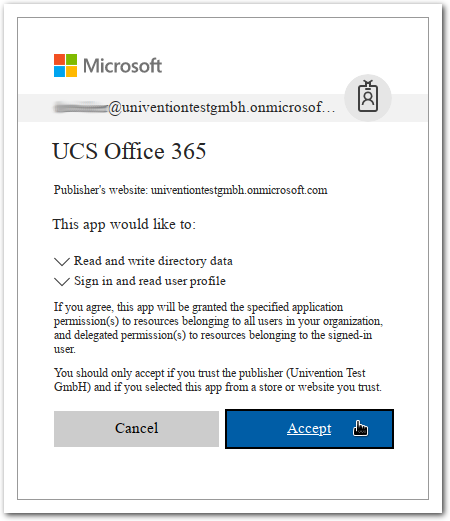
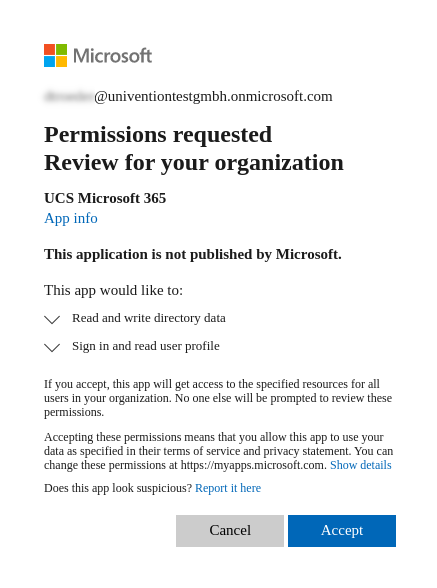
Bug #51153: Office365 is now Microsoft365

Changed region(s): [[0.0892, 0.5835, 0.9222, 0.952], [0.0892, 0.0614, 0.8924, 0.5528], [0.0, 0.0, 1.0, 1.0]]

diff --git a/umc/js/office365.js b/umc/js/office365.js
@@ -69,8 +69,8 @@ define([
 			lang.mixin(this, {
 				pages: [{
 					name: 'start',
-					headerText: _('Welcome to the Office 365 configuration'),
-					helpText: _('Welcome to the Microsoft Office 365 setup wizard. A few steps are needed to complete the configuration process.'),
+					headerText: _('Welcome to the Microsoft 365 configuration'),
+					helpText: _('Welcome to the Microsoft 365 setup wizard. A few steps are needed to complete the configuration process.'),
 					widgets: [{
 						type: Text,
 						name: 'already-initialized',
@@ -91,7 +91,7 @@ define([
 					}]
 				}, {
 					name: 'add-application',
-					headerText: _('Create an application for Office 365'),
+					headerText: _('Create an application for Microsoft 365'),
 					helpText: _('To allow UCS to synchronize selected user accounts a new application have to be added in the active directory.'),
 					widgets: [{
 						name: 'infos',
@@ -111,7 +111,7 @@ define([
 				}, {
 					name: 'ucs-integration',
 					headerText: _('Connect Azure with UCS'),
-					helpText: _('To integrate Office 365 into UCS the manifest of the new application has to be downloaded.') + ' ' + _('The manifest is a JSON file which contains all necessary information required to connect UCS with your active directory.'),
+					helpText: _('To integrate Microsoft 365 into UCS the manifest of the new application has to be downloaded.') + ' ' + _('The manifest is a JSON file which contains all necessary information required to connect UCS with your active directory.'),
 					widgets: [{
 						type: Text,
 						name: 'infos',
@@ -195,7 +195,7 @@ define([
 					}]
 				}, {
 					name: 'authorize',
-					headerText: _('Authorize UCS Office 365 application'),
+					headerText: _('Authorize UCS Microsoft 365 application'),
 					helpText: _('In the following step some permissions have to be granted to UCS.'),
 					widgets: [{
 						type: Text,
@@ -223,7 +223,7 @@ define([
 					}]
 				}, {
 					name: 'success',
-					headerText: _('Office 365 setup complete'),
+					headerText: _('Microsoft 365 setup complete'),
 					helpText: _('Congratulations, the connection between UCS and Microsoft Azure has been established.'),
 					widgets: [{
 						type: Text,
@@ -232,7 +232,7 @@ define([
 					}]
 				}, {
 					name: 'success2',
-					headerText: _('Office 365 setup complete'),
+					headerText: _('Microsoft 365 setup complete'),
 					helpText: _('The configuration of synchronized attributes can be done via Univention Config Registry.'),
 					widgets: [{
 						type: Text,
@@ -241,12 +241,12 @@ define([
 					}]
 				}, {
 					name: 'success3',
-					headerText: _('Office 365 setup complete'),
-					helpText: _('Users can now single sign on into the Office 365 account.'),
+					headerText: _('Microsoft 365 setup complete'),
+					helpText: _('Users can now single sign on into the Microsoft 365 account.'),
 					widgets: [{
 						type: Text,
 						name: 'infos',
-						content: _('Synchronized users can log into Office 365 by using the link on the <a href="/univention/" target="_blank">UCS portal</a>.') + '<br>' + this.img(_('sso-login_EN.png'))
+						content: _('Synchronized users can log into Microsoft 365 by using the link on the <a href="/univention/" target="_blank">UCS portal</a>.') + '<br>' + this.img(_('sso-login_EN.png'))
 					}]
 				}, {
 					name: 'error',
@@ -283,9 +283,9 @@ define([
 
 		getTextWelcome: function() {
 			return this.formatParagraphs([
-				_('Welcome to the <a href="https://products.office.com/" target="_blank">Microsoft Office 365</a> setup wizard.'),
-				_('It will guide you through the process of setting up automatic provisioning of Microsoft Office 365 accounts for your user accounts.'),
-				_('To use this app you need a Microsoft Office 365 admin account, a global administrator account in the corresponding Azure AD and a <a href="https://azure.microsoft.com/en-us/documentation/articles/active-directory-add-domain/" target="_blank">verified domain</a>.'),
+				_('Welcome to the <a href="https://products.office.com/" target="_blank">Microsoft 365</a> setup wizard.'),
+				_('It will guide you through the process of setting up automatic provisioning of Microsoft 365 accounts for your user accounts.'),
+				_('To use this app you need a Microsoft 365 admin account, a global administrator account in the corresponding Azure AD and a <a href="https://azure.microsoft.com/en-us/documentation/articles/active-directory-add-domain/" target="_blank">verified domain</a>.'),
 				_('In addition, a Windows PC with at least Windows 7 is required to configure single sign-on for this domain.')
 			]);
 		},
@@ -297,7 +297,7 @@ define([
 				_('Open the <i>APP REGISTRATIONS</i> module.') + this.img(_('app_registrations_EN.png')),
 				_('If existing applications are not shown, select <i>All applications</i> above the search field.'),
 				_('Click <i>NEW REGISTRATION</i> to add a new application to your directory.') + this.img(_('top_bar_add_app_EN.png')),
-				_('Enter a name for your application, e.g. <i>UCS Office 365</i>.'),
+				_('Enter a name for your application, e.g. <i>UCS Microsoft 365</i>.'),
 				_('As supported account type select <i>Accounts in this organizational directory only</i>.') + this.img(_('app_name_EN.png')),
 				_('In the category <i>Redirect URI</i>, make sure <i>Web</i> is selected in the dropdown. Copy the value below and paste it into the textfield in the Azure wizard.')
 			]);
@@ -321,7 +321,7 @@ define([
 		},
 
 		getTextManifestUploadDomain: function() {
-			return _('The setup wizard now needs the domain that was verified during the configuration of the Office 365 account. Insert it into the text box below.');
+			return _('The setup wizard now needs the domain that was verified during the configuration of the Microsoft 365 account. Insert it into the text box below.');
 		},
 
 		getTextManifestUpload: function() {
@@ -342,7 +342,7 @@ define([
 		getTextAzureAuthorization: function() {
 			return [_('The connection between UCS and the Microsoft Azure application has to be authorized now.'),
 				_('When you click on the button below a a new browser window will be opened. Please select your account and log in if necessary and click on <i>Accept</i> to permit the permission request.'),
-				_('After this the browser window will close itself and the connection between UCS and the Office 365 application will be established.')
+				_('After this the browser window will close itself and the connection between UCS and the Microsoft 365 application will be established.')
 			].join(' ');
 		},
 
@@ -351,7 +351,7 @@ define([
 		},
 
 		getTextSingleSignOnSetup: function() {
-			return '<p>' + _('To finish configuration, single sign-on has to be configured for the Office 365 domain. Microsoft only supports to configure single sign-on by running a Microsoft Powershell script on a Windows PC.') + '</p>' + this.formatOrderedList([
+			return '<p>' + _('To finish configuration, single sign-on has to be configured for the Microsoft 365 domain. Microsoft only supports to configure single sign-on by running a Microsoft Powershell script on a Windows PC.') + '</p>' + this.formatOrderedList([
 				_('If you open this setup wizard again at a later time, a link on the first page will take you back to this instructions.'),
 				_('To use the single sign-on script, your Windows PC must have at least installed the <a href="%s" target="_blank">.NET runtime environment version 4.5.1.</a>.', _('https://www.microsoft.com/download/details.aspx?id=40779')),
 				_('Install the latest version of Microsoft Powershell, at least <a href="%s" target="_blank">Windows Management Framework 5.1</a> has to be installed.', _('https://aka.ms/wmf5download')),
@@ -365,18 +365,18 @@ define([
 
 		getTextUniventionConfigRegistry: function() {
 			return this.formatParagraphs([
-				_('For the UCS user account for which Office 365 is enabled, an account in the Microsoft directory is created and selected account attributes get synchronized from UCS to the Microsoft directory.'),
+				_('For the UCS user account for which Microsoft 365 is enabled, an account in the Microsoft directory is created and selected account attributes get synchronized from UCS to the Microsoft directory.'),
 				_('Via the Univention Config Registry variable <i>office365/attributes/sync</i> can be configured which LDAP attributes (e.g. given name, surname, etc.) of a user account are sychronized.') + ' ' +
 				_('You may add or remove attributes from the list by using the %s.', [tools.linkToModule({module: 'ucr'})]),
 				_('Additional configuration settings can be viewed in the help of the UCR variables <i>office365/attributes/anonymize</i> and <i>office365/attributes/static/.*</i>.') + ' ' +
-				_('You can enable the UCR variable <i>office365/groups/sync</i> to synchronize the groups of the enabled Office 365 users.')
+				_('You can enable the UCR variable <i>office365/groups/sync</i> to synchronize the groups of the enabled Microsoft 365 users.')
 			]);
 		},
 
 		getTextSuccessPage1: function() {
 			return this.formatParagraphs([
-				_('You can now enable the Microsoft Azure synchronization for users on the <i>Office 365</i> tab in the %s.', [tools.linkToModule({module: 'udm', flavor: 'users/user'})]),
-				_('To learn more about configuring individual subscriptions and service plans for users, see <a href="%s" target="_blank">the Office 365 Connector documentation</a>', _('http://wiki.univention.de/index.php?title=Microsoft_Office_365_Connector')) + '<br>' + this.img(_('umc_office365_EN.png'))
+				_('You can now enable the Microsoft Azure synchronization for users on the <i>Microsoft 365</i> tab in the %s.', [tools.linkToModule({module: 'udm', flavor: 'users/user'})]),
+				_('To learn more about configuring individual subscriptions and service plans for users, see <a href="%s" target="_blank">the Microsoft 365 Connector documentation</a>', _('http://wiki.univention.de/index.php?title=Microsoft_Office_365_Connector')) + '<br>' + this.img(_('umc_office365_EN.png'))
 			]);
 		},
 
@@ -433,7 +433,7 @@ define([
 			this._progressBar = new ProgressBar();
 			this._progressDeferred = new Deferred();
 			this._progressBar.setInfo(null, null, Infinity);
-			this._progressBar.feedFromDeferred(this._progressDeferred, _('Office 365 configuration'));
+			this._progressBar.feedFromDeferred(this._progressDeferred, _('Microsoft 365 configuration'));
 		},
 
 		startPolling: function() {
@@ -473,7 +473,7 @@ define([
 			} else if (nextPage == 'add-application') {
 				if (window.location.protocol != 'https:') {
 					dialog.alert(_('It is necessary to <a href="https://%(url)s">run this wizard while using the Univention Management Console with a https connection.</a> If you continue without a https connection, the wizard will likely not complete.', {
-								url: window.location.href.slice(7)	
+								url: window.location.href.slice(7)
 							}),
 						_('Warning'));
 				}
@@ -541,12 +541,12 @@ define([
 				label: _('Help'),
 				callback: lang.hitch(this, function() {
 					dialog.alert([
-						_('This wizard helps you to configure the connection between UCS and Microsoft Office 365.'), '<br>',
-						_('You need a <a href="%(domain)s" target="_blank">verified domain</a> and access to the <a href="%(dev)s" target="_blank">Microsoft Azure Portal</a> with a Microsoft Office 365 administrator account.', {
+						_('This wizard helps you to configure the connection between UCS and Microsoft 365.'), '<br>',
+						_('You need a <a href="%(domain)s" target="_blank">verified domain</a> and access to the <a href="%(dev)s" target="_blank">Microsoft Azure Portal</a> with a Microsoft 365 administrator account.', {
 							domain: _('https://azure.microsoft.com/en-us/documentation/articles/active-directory-add-domain/'),
 							dev: _('https://manage.windowsazure.com/')
 						})
-					].join(' '), _('Microsoft Office 365 setup wizard'));
+					].join(' '), _('Microsoft 365 setup wizard'));
 				})
 			}]);
 		},

diff --git a/office365-group.py b/office365-group.py
@@ -1,6 +1,6 @@
 # -*- coding: utf-8 -*-
 #
-# Univention Office 365 - listener module to manage groups in MS Azure
+# Univention Microsoft 365 - listener module to manage groups in MS Azure
 #
 # Copyright 2016-2019 Univention GmbH
 #
@@ -100,10 +100,10 @@ def setdata(key, value):
 
 def initialize():
 	if not listener.configRegistry.is_true("office365/groups/sync", False):
-		raise RuntimeError("Office 365 App: syncing of groups is deactivated by UCR.")
+		raise RuntimeError("Microsoft 365 App: syncing of groups is deactivated by UCR.")
 
 	if not initialized_adconnections:
-		raise RuntimeError("Office 365 App ({}) not initialized for any Azure AD connection yet, please run wizard.".format(name))
+		raise RuntimeError("Microsoft 365 App ({}) not initialized for any Azure AD connection yet, please run wizard.".format(name))
 
 
 def clean():
@@ -112,7 +112,7 @@ def clean():
 	user objects.
 	"""
 	adconnection_filter = get_adconnection_filter(listener.configRegistry, adconnection_aliases)
-	logger.info("Removing Office 365 ObjectID and Data from all users (adconnection_filter=%r)...", adconnection_filter)
+	logger.info("Removing Microsoft 365 ObjectID and Data from all users (adconnection_filter=%r)...", adconnection_filter)
 	UDMHelper.clean_udm_objects("groups/group", listener.configRegistry["ldap/base"], ldap_cred, adconnection_filter)
 
 
@@ -121,7 +121,7 @@ def handler(dn, new, old, command):
 	if not listener.configRegistry.is_true("office365/groups/sync", False):
 		return
 	if not initialized_adconnections:
-		raise RuntimeError("{}.handler() Office 365 App not initialized for any Azure AD connection yet, please run wizard.".format(name))
+		raise RuntimeError("{}.handler() Microsoft 365 App not initialized for any Azure AD connection yet, please run wizard.".format(name))
 
 	if command == 'r':
 		save_old(old)

diff --git a/office365-user.py b/office365-user.py
@@ -1,6 +1,6 @@
 # -*- coding: utf-8 -*-
 #
-# Univention Office 365 - listener module to provision accounts in MS Azure
+# Univention Microsoft 365 - listener module to provision accounts in MS Azure
 #
 # Copyright 2016-2019 Univention GmbH
 #
@@ -232,7 +232,7 @@ def initialize():
 	logger.info("office 365 user listener active with filter=%r", filter)
 	logger.info('AD connection aliases: %r', adconnection_aliases)
 	if not initialized_adconnection:
-		raise RuntimeError("Office 365 App ({}) not initialized for any AD connection yet, please run wizard.".format(name))
+		raise RuntimeError("Microsoft 365 App ({}) not initialized for any AD connection yet, please run wizard.".format(name))
 
 
 def clean():
@@ -241,7 +241,7 @@ def clean():
 	user objects.
 	"""
 	adconnection_filter = get_adconnection_filter(listener.configRegistry, initialized_adconnection)
-	logger.info("Removing Office 365 ObjectID and Data from all users (adconnection_filter=%r)...", adconnection_filter)
+	logger.info("Removing Microsoft 365 ObjectID and Data from all users (adconnection_filter=%r)...", adconnection_filter)
 	UDMHelper.clean_udm_objects("users/user", listener.configRegistry["ldap/base"], ldap_cred, adconnection_filter)
 
 
@@ -367,7 +367,7 @@ def modify_user(ol, dn, new, old):
 def handler(dn, new, old, command):
 	logger.debug("%s.handler() command: %r dn: %r", name, command, dn)
 	if not initialized_adconnection:
-		raise RuntimeError("{}.handler() Office 365 App not initialized for any AD connection yet, please run wizard.".format(name))
+		raise RuntimeError("{}.handler() Microsoft 365 App not initialized for any AD connection yet, please run wizard.".format(name))
 
 	if command == 'r':
 		save_old(old)

diff --git a/modules/univention/office365/azure_auth.py b/modules/univention/office365/azure_auth.py
@@ -754,11 +754,11 @@ pause
 		sp_query_string = "?spentityid=urn:federation:MicrosoftOnline"
 		sp_link = "https://{}/simplesamlphp/saml2/idp/SSOService.php{}".format(ucr["ucs/server/sso/fqdn"], sp_query_string)
 		ucr_update(ucr, {
-			"ucs/web/overview/entries/service/office365/description": "Single Sign-On login for Microsoft Office 365",
-			"ucs/web/overview/entries/service/office365/label": "Office 365 Login",
+			"ucs/web/overview/entries/service/office365/description": "Single Sign-On login for Microsoft Microsoft 365",
+			"ucs/web/overview/entries/service/office365/label": "Microsoft 365 Login",
 			"ucs/web/overview/entries/service/office365/link": sp_link,
-			"ucs/web/overview/entries/service/office365/description/de": "Single-Sign-On Link für Microsoft Office 365",
-			"ucs/web/overview/entries/service/office365/label/de": "Office 365 Login",
+			"ucs/web/overview/entries/service/office365/description/de": "Single-Sign-On Link für Microsoft Microsoft 365",
+			"ucs/web/overview/entries/service/office365/label/de": "Microsoft 365 Login",
 			"ucs/web/overview/entries/service/office365/priority": "50",
 			"ucs/web/overview/entries/service/office365/icon": "/office365.png"
 		})

diff --git a/office365_user_ADConnections_hook.py b/office365_user_ADConnections_hook.py
@@ -1,6 +1,6 @@
 # -*- coding: utf-8 -*-
 #
-# Univention Office 365 - UDM hook to access ADConnection data
+# Univention Microsoft 365 - UDM hook to access ADConnection data
 #
 # Copyright 2016-2019 Univention GmbH
 #
@@ -35,7 +35,7 @@ from univention.lib.i18n import Translation
 from univention.office365.listener import Office365Listener
 
 _ = Translation('univention-admin-handlers-office365').translate
-msg_require_mail = _("Office 365 users must have a primary e-mail address specified.")
+msg_require_mail = _("Microsoft 365 users must have a primary e-mail address specified.")
 
 
 class Office365ADConnectionsHook(simpleHook):

diff --git a/simplesamlSPconfig.php b/simplesamlSPconfig.php
@@ -6,7 +6,7 @@ $metadata['urn:federation:MicrosoftOnline'] = array(
 	'simplesaml.nameidattribute'	=> 'entryUUID',
 	'simplesaml.attributes'	=> true,
 	'attributes'	=> array('entryUUID', 'univentionOffice365userPrincipalName', 'univentionOffice365Enabled'),
-	'OrganizationName'	=> 'Microsoft Office 365',
+	'OrganizationName'	=> 'Microsoft 365',
 	'signature.algorithm' => 'http://www.w3.org/2000/09/xmldsig#rsa-sha1',
 	'authproc' => array(
 		10 => array(

diff --git a/office365-wsgi.py b/office365-wsgi.py
@@ -30,7 +30,7 @@ def application(environ, start_response):
 		</head>
 		<body>
 			<form action="/univention/command/office365/authorize_internal" id="form_auth" method="post">
-	""" % {'title': _('Office 365 Configuration finished')})
+	""" % {'title': _('Microsoft 365 Configuration finished')})
 
 	for name, value in request_body.items():
 		content += u'\t<input type="hidden" name="%s" value="%s" />\n' % (escape(name), escape(value[0]))

diff --git a/umc/python/office365/__init__.py b/umc/python/office365/__init__.py
@@ -174,7 +174,7 @@ class Instance(Base):
 				</body>
 		</html>
 		""" % {
-			'title': _('Office 365 Configuration finished'),
+			'title': _('Microsoft 365 Configuration finished'),
 			'content': _('The configuration has finished! You can now close this page and continue the configuration wizard.'),
 		})
 

diff --git a/README.md b/README.md
@@ -1,7 +1,7 @@
-# Office 365 connector
+# Microsoft 365 connector
 
 This package provides functionality to synchronize UCS user and group accounts
-to Azure AD to provision MS Office 365 accounts for them.
+to Azure AD to provision Microsoft 365 accounts for them.
 The accounts can be configured for synchonization to multiple Azure AD domains.
 
 This package contains a UMC wizard, extended attributes and hooks for user and
@@ -12,7 +12,7 @@ which can only be installed on UCS Systems with role Master or Backup.
 
 # User Story
 
-* After installation of this App UCS user accounts have a new Tab "Office 365"
+* After installation of this App UCS user accounts have a new Tab "Microsoft 365"
   in UMC, which offers a checkbox to Enable the Syncronization of the account
   to an Azure Active Directory. Below that checkbox, the "alias" name of a
   target Azure AD can be selected. If none is selected, then a default
@@ -48,11 +48,11 @@ which can only be installed on UCS Systems with role Master or Backup.
   via LDAP search, because it is stored as encoded as base64(zipped(json(dict)))
   in an LDAP attribute "univentionOffice365Data". For user objects this
   encoded dictionary additionally includes the Azure AD specific userPrincipalNames,
-  which are visible in the UMC users/user tab "Office 365". Their presence
+  which are visible in the UMC users/user tab "Microsoft 365". Their presence
   in the UMC provides a possiblity to quickly check, if the initial
   synchronization of an account has been successful.
 * The connector is able to configure O365 subscriptions at user objects. Subscriptions are
-  only assigned when a user is enabled for Azure synchronisation, reenabling a user also 
+  only assigned when a user is enabled for Azure synchronisation, reenabling a user also
   configures subscriptions. By default it is it is tried to enable a subscription with the
   following Azure-internal identifiers:
   'SHAREPOINTWAC, SHAREPOINTWAC_DEVELOPER, OFFICESUBSCRIPTION'.
